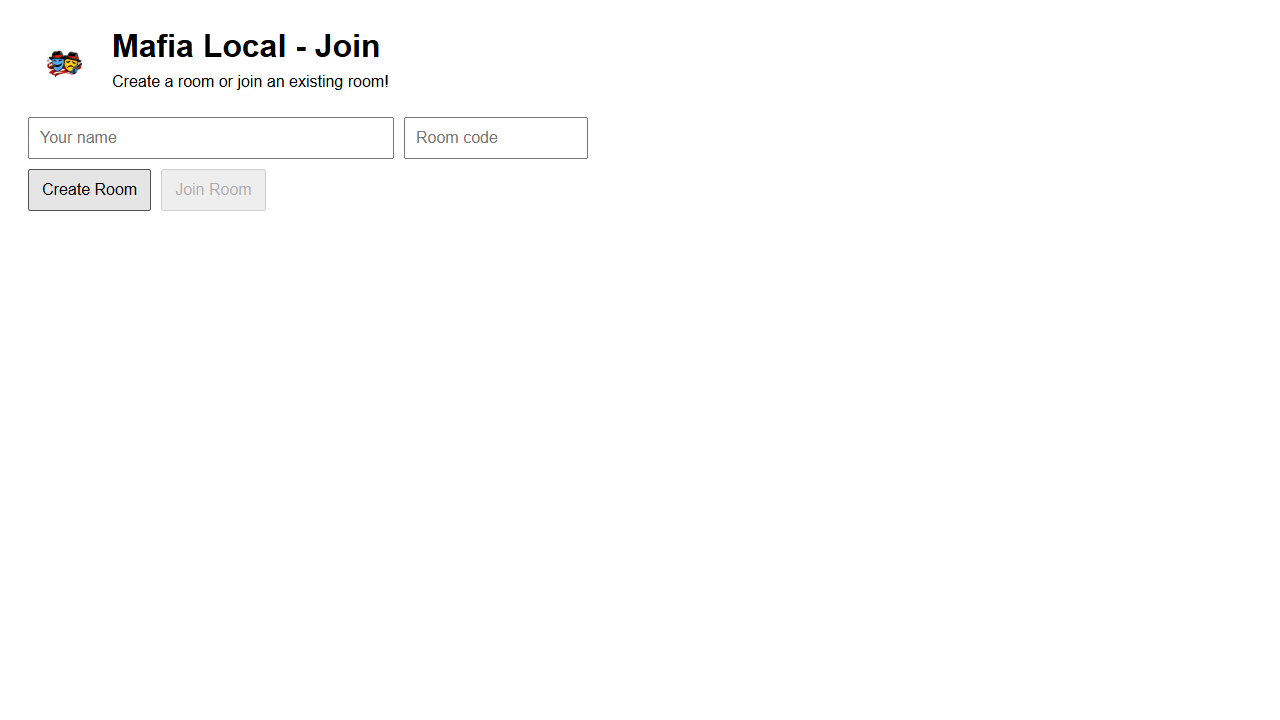
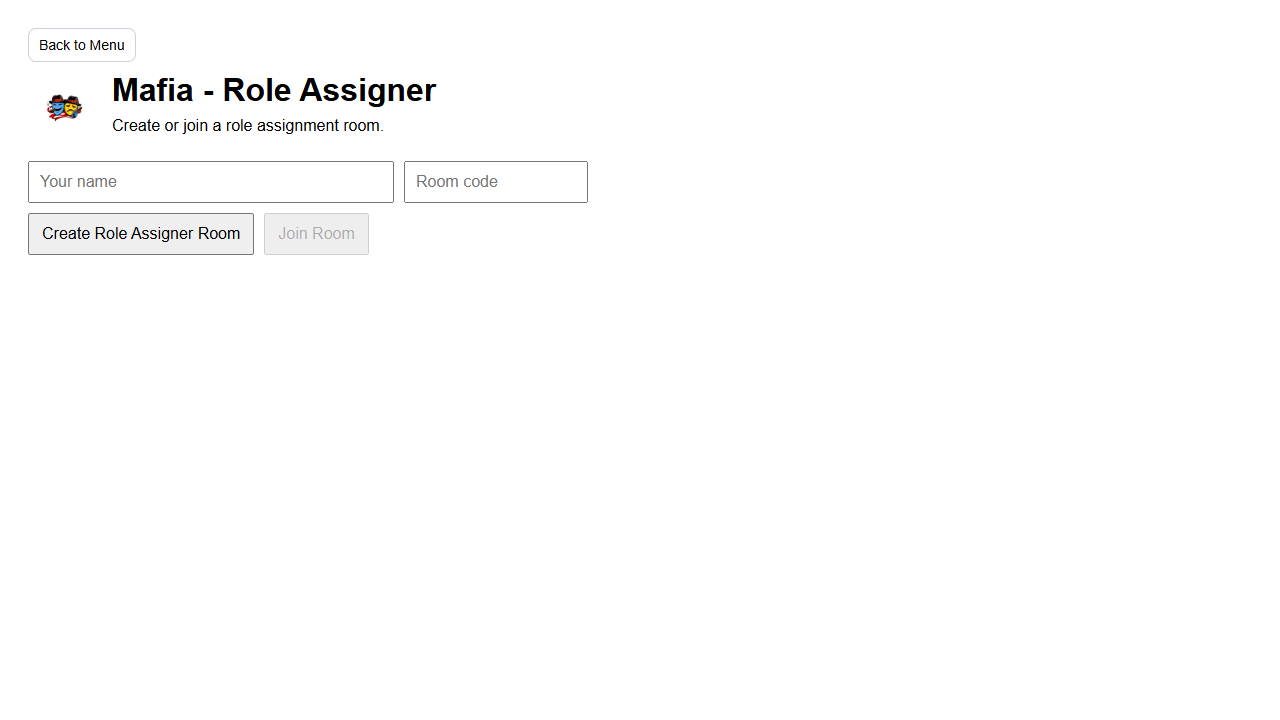
PATCH 0.9.4
ADDED:

none.

Removed:

Mafia-Local\README.md

Updated:

all 0.9.3 to a 0.9.4

Fix:

Linking issue:
"Role Assignment" would create a regular game lobby instead of a role assigner lobby

Changed region(s): [[0.0, 0.0306, 0.3438, 0.3361], [0.3125, 0.1833, 0.4062, 0.275], [0.2188, 0.3056, 0.2812, 0.3361]]

diff --git a/Mafia-Local/Client/pages/Join.tsx b/Mafia-Local/Client/pages/Join.tsx
@@ -117,19 +117,18 @@ export default function Join({ mode, onBackToMenu, onEnterLobby }: Props) {
     const cleanName = name.trim()
     const cleanRoom = normalizeRoomId(room)
 
-    const createRoom = () => {
+    const createRoomForMode = () => {
         if (!cleanName) return alert("Enter Name First!")
-        setStatus("Creating room...")
-        socket.emit("createRoom", { playerName: cleanName, baseUrl: baseUrll })
-    }
-
-    const createRoleSelectorRoom = () => {
-        if (!cleanName) return alert("Enter Name First!")
-        setStatus("Creating role selector room...")
+        const roomType = isRoleAssignerMode ? "ROLE_SELECTOR" : "CLASSIC"
+        setStatus(
+          isRoleAssignerMode
+            ? "Creating role selector room..."
+            : "Creating room..."
+        )
         socket.emit("createRoom", {
             playerName: cleanName,
             baseUrl: baseUrll,
-            roomType: "ROLE_SELECTOR",
+            roomType,
         })
     }
 
@@ -145,7 +144,11 @@ export default function Join({ mode, onBackToMenu, onEnterLobby }: Props) {
         setPendingRoom(cleanRoom)
 
         // ask the SERVER to join (server accepts or rejects)
-        socket.emit("joinRoom", { roomId: cleanRoom, playerName: cleanName })
+        socket.emit("joinRoom", {
+            roomId: cleanRoom,
+            playerName: cleanName,
+            expectedRoomType: isRoleAssignerMode ? "ROLE_SELECTOR" : "CLASSIC",
+        })
     }
 
     const isRoleAssignerMode = mode === "ROLE_ASSIGNER"
@@ -210,11 +213,11 @@ export default function Join({ mode, onBackToMenu, onEnterLobby }: Props) {
 
         <div style={{ display: "flex", gap: 10, marginBottom: 10 }}>
             {isRoleAssignerMode ? (
-              <button style={{ padding: "10px 12px", fontSize: 16 }} onClick={createRoleSelectorRoom}>
+              <button style={{ padding: "10px 12px", fontSize: 16 }} onClick={createRoomForMode}>
                 Create Role Assigner Room
               </button>
             ) : (
-              <button style={{ padding: "10px 12px", fontSize: 16 }} onClick={createRoom}>
+              <button style={{ padding: "10px 12px", fontSize: 16 }} onClick={createRoomForMode}>
                 Create Room
               </button>
             )}

diff --git a/Mafia-Local/Electron/main.js b/Mafia-Local/Electron/main.js
@@ -44,10 +44,15 @@ const shouldAutoStartBackend = () => {
 const getServerEntryPath = () => {
   const appPath = app.getAppPath()
   const candidates = [
+    path.join(appPath, "Server", "dist", "Server", "index.js"),
     path.join(appPath, "Server", "dist", "index.js"),
+    path.join(__dirname, "..", "Server", "dist", "Server", "index.js"),
     path.join(__dirname, "..", "Server", "dist", "index.js"),
+    path.join(__dirname, "Server", "dist", "Server", "index.js"),
     path.join(__dirname, "Server", "dist", "index.js"),
+    path.join(process.resourcesPath, "Server", "dist", "Server", "index.js"),
     path.join(process.resourcesPath, "Server", "dist", "index.js"),
+    path.join(process.resourcesPath, "app", "Server", "dist", "Server", "index.js"),
     path.join(process.resourcesPath, "app", "Server", "dist", "index.js"),
   ]
 
@@ -69,6 +74,22 @@ const getPackagedClientIndexPath = () => {
 
   for (const candidate of candidates) {
     if (fs.existsSync(candidate)) return candidate
+  }
+
+  return null
+}
+
+const getPackagedClientDistPath = () => {
+  const appPath = app.getAppPath()
+  const candidates = [
+    path.join(appPath, "Client", "dist"),
+    path.join(__dirname, "..", "Client", "dist"),
+    path.join(process.resourcesPath, "Client", "dist"),
+    path.join(process.resourcesPath, "app", "Client", "dist"),
+  ]
+
+  for (const candidate of candidates) {
+    if (fs.existsSync(path.join(candidate, "index.html"))) return candidate
   }
 
   return null
@@ -121,6 +142,12 @@ const startBackend = async () => {
     const clientPort = shouldUseDevRenderer() ? "5173" : String(SERVER_PORT)
     process.env.MAFIA_SERVER_PORT = String(SERVER_PORT)
     process.env.MAFIA_CLIENT_PORT = clientPort
+    if (!shouldUseDevRenderer()) {
+      const packagedClientDistPath = getPackagedClientDistPath()
+      if (packagedClientDistPath) {
+        process.env.MAFIA_CLIENT_DIST_DIR = packagedClientDistPath
+      }
+    }
 
     if (!backendStartedInProcess) {
       await import(pathToFileURL(serverEntryPath).href)

diff --git a/Mafia-Local/Server/index.ts b/Mafia-Local/Server/index.ts
@@ -90,6 +90,9 @@ const resolveServerPublicDir = (): string | null => {
 }
 
 const CLIENT_DIST_DIR = resolveClientDistDir()
+const CLIENT_INDEX_PATH = CLIENT_DIST_DIR
+  ? path.join(CLIENT_DIST_DIR, "index.html")
+  : null
 const CLIENT_PORT_FOR_JOIN_URL = parsePort(
   process.env.MAFIA_CLIENT_PORT,
   CLIENT_DIST_DIR ? SERVER_PORT : DEFAULT_DEV_CLIENT_PORT
@@ -129,6 +132,17 @@ if (CLIENT_DIST_DIR) {
 app.get("/health", (req, res) => {
   res.send("OK")
 })
+
+// Packaged app fallback: ensure "/" and deep links resolve to client app.
+if (CLIENT_INDEX_PATH && fs.existsSync(CLIENT_INDEX_PATH)) {
+  app.get("/", (_req, res) => {
+    res.sendFile(CLIENT_INDEX_PATH)
+  })
+
+  app.get(/^\/(?!socket\.io\/|health$).*/, (_req, res) => {
+    res.sendFile(CLIENT_INDEX_PATH)
+  })
+}
 
 // Helper:
 function getLanIp(): string {
@@ -196,8 +210,14 @@ io.on("connection", (socket) => {
     }
   )
 
-  socket.on("joinRoom", ({ roomId, playerName }: JoinRoomPayload) => {
-    roomsManager.joinRoomLocal(socket, roomId, playerName, socket.data.clientId)
+  socket.on("joinRoom", ({ roomId, playerName, expectedRoomType }: JoinRoomPayload) => {
+    roomsManager.joinRoomLocal(
+      socket,
+      roomId,
+      playerName,
+      socket.data.clientId,
+      expectedRoomType
+    )
   })
 
   socket.on("leaveRoom", (roomId: string) => {

diff --git a/Mafia-Local/Server/rooms.ts b/Mafia-Local/Server/rooms.ts
@@ -1552,7 +1552,8 @@ const updateRoomSettings = (
     socket: MafiaServerSocket,
     roomId: string,
     playerName: string,
-    clientId: string
+    clientId: string,
+    expectedRoomType?: MafiaRoomType
   ) => {
     const cleanRoomId = normalizeRoomId(roomId)
     const cleanName = normalizeName(playerName)
@@ -1576,6 +1577,15 @@ const updateRoomSettings = (
     const room = rooms[cleanRoomId]
     if (!room) {
       socket.emit("roomInvalid", { reason: "Room Does Not Exist" })
+      return
+    }
+
+    if (expectedRoomType && room.roomType !== expectedRoomType) {
+      const expectedLabel =
+        expectedRoomType === "ROLE_SELECTOR" ? "Role Assigner" : "Play Game"
+      socket.emit("roomInvalid", {
+        reason: `This room was created for a different mode. Please join from ${expectedLabel}.`,
+      })
       return
     }
 

diff --git a/Mafia-Local/Shared/events.ts b/Mafia-Local/Shared/events.ts
@@ -369,6 +369,7 @@ export type CreateRoomPayload = {
 export type JoinRoomPayload = {
   roomId: string
   playerName: string
+  expectedRoomType?: MafiaRoomType
 }
 
 export interface MafiaClientToServerEvents {

diff --git a/Mafia-Local/progress.md b/Mafia-Local/progress.md
@@ -261,3 +261,57 @@ TODO / next-agent suggestions:
 - If desired, add a `Back to Menu` affordance directly inside Lobby/Game (currently users can leave room, then return to menu via app flow).
 - If desired, split join copy/placeholders slightly further between modes (e.g., join button text for role assigner mode).
 
+---
+
+- New task: fix Role Assigner linking so it consistently creates/joins role-assignment rooms.
+- Root issue addressed:
+  - Join flow did not enforce room-mode compatibility.
+  - Role Assigner and Play Game could join each other's room types with no guard.
+- Implemented room-type-safe linking:
+  - `Shared/events.ts`:
+    - `JoinRoomPayload` now includes optional `expectedRoomType`.
+  - `Client/pages/Join.tsx`:
+    - Create action now always sends explicit room type by mode:
+      - `PLAY_GAME` -> `CLASSIC`
+      - `ROLE_ASSIGNER` -> `ROLE_SELECTOR`
+    - Join action now sends `expectedRoomType` based on selected entry mode.
+  - `Server/index.ts`:
+    - Passes `expectedRoomType` from socket `joinRoom` payload into room manager.
+  - `Server/rooms.ts`:
+    - `joinRoomLocal` now validates expected mode against actual room type and rejects mismatches with `roomInvalid` reason.
+- Validation:
+  - `Client`: `npm run build` passes.
+  - `Server`: `npm run build` passes.
+  - Playwright skill script run and screenshot reviewed:
+    - `output/web-game/shot-0.png` shows Role Assigner join screen after menu navigation.
+---
+
+- New task: installed app showed `Cannot GET /` on launch.
+- Root cause addressed:
+  - In packaged mode, backend sometimes launched without a resolved client dist directory, so Express had no route/static handler for `/`.
+- Implemented packaged routing hardening:
+  - `Electron/main.js`:
+    - Added packaged client dist resolver (`getPackagedClientDistPath`).
+    - When packaged, now sets `process.env.MAFIA_CLIENT_DIST_DIR` before importing server entry.
+  - `Server/index.ts`:
+    - Added `CLIENT_INDEX_PATH` derivation.
+    - Added explicit fallback routes for `/` and non-API deep links to serve client `index.html` when available.
+- Validation:
+  - `Client`: `npm run build` passes.
+  - `Server`: `npm run build` passes.
+  - `Electron`: `npm run dist` passes; installer artifacts refreshed for `0.9.3`.
+---
+
+- New task: `Cannot GET /` persisted after install.
+- Root cause found:
+  - Packaged app had stale `Server/dist/index.js` plus current `Server/dist/Server/index.js`.
+  - Electron startup path preferred stale `Server/dist/index.js`, so latest server routing fixes were bypassed.
+- Implemented fix:
+  - `Electron/main.js`: `getServerEntryPath` now prioritizes `Server/dist/Server/index.js` across packaged path candidates.
+  - `Server/package.json`: build now clears `dist` before TypeScript compile, preventing stale duplicate entry files.
+- Validation:
+  - `npm run build` in `Mafia-Local/Server` passes.
+  - `Server/dist` now only contains `Server/` and `Shared/` (no stale top-level `index.js`).
+  - `npm run dist` in `Mafia-Local/Electron` passes.
+  - Asar check confirms `\Server\dist\Server\index.js` exists and stale `\Server\dist\index.js` is absent.
+  - Runtime smoke (`node` import of `Server/dist/Server/index.js` with `MAFIA_CLIENT_DIST_DIR`) returns HTTP 200 for `/`.
